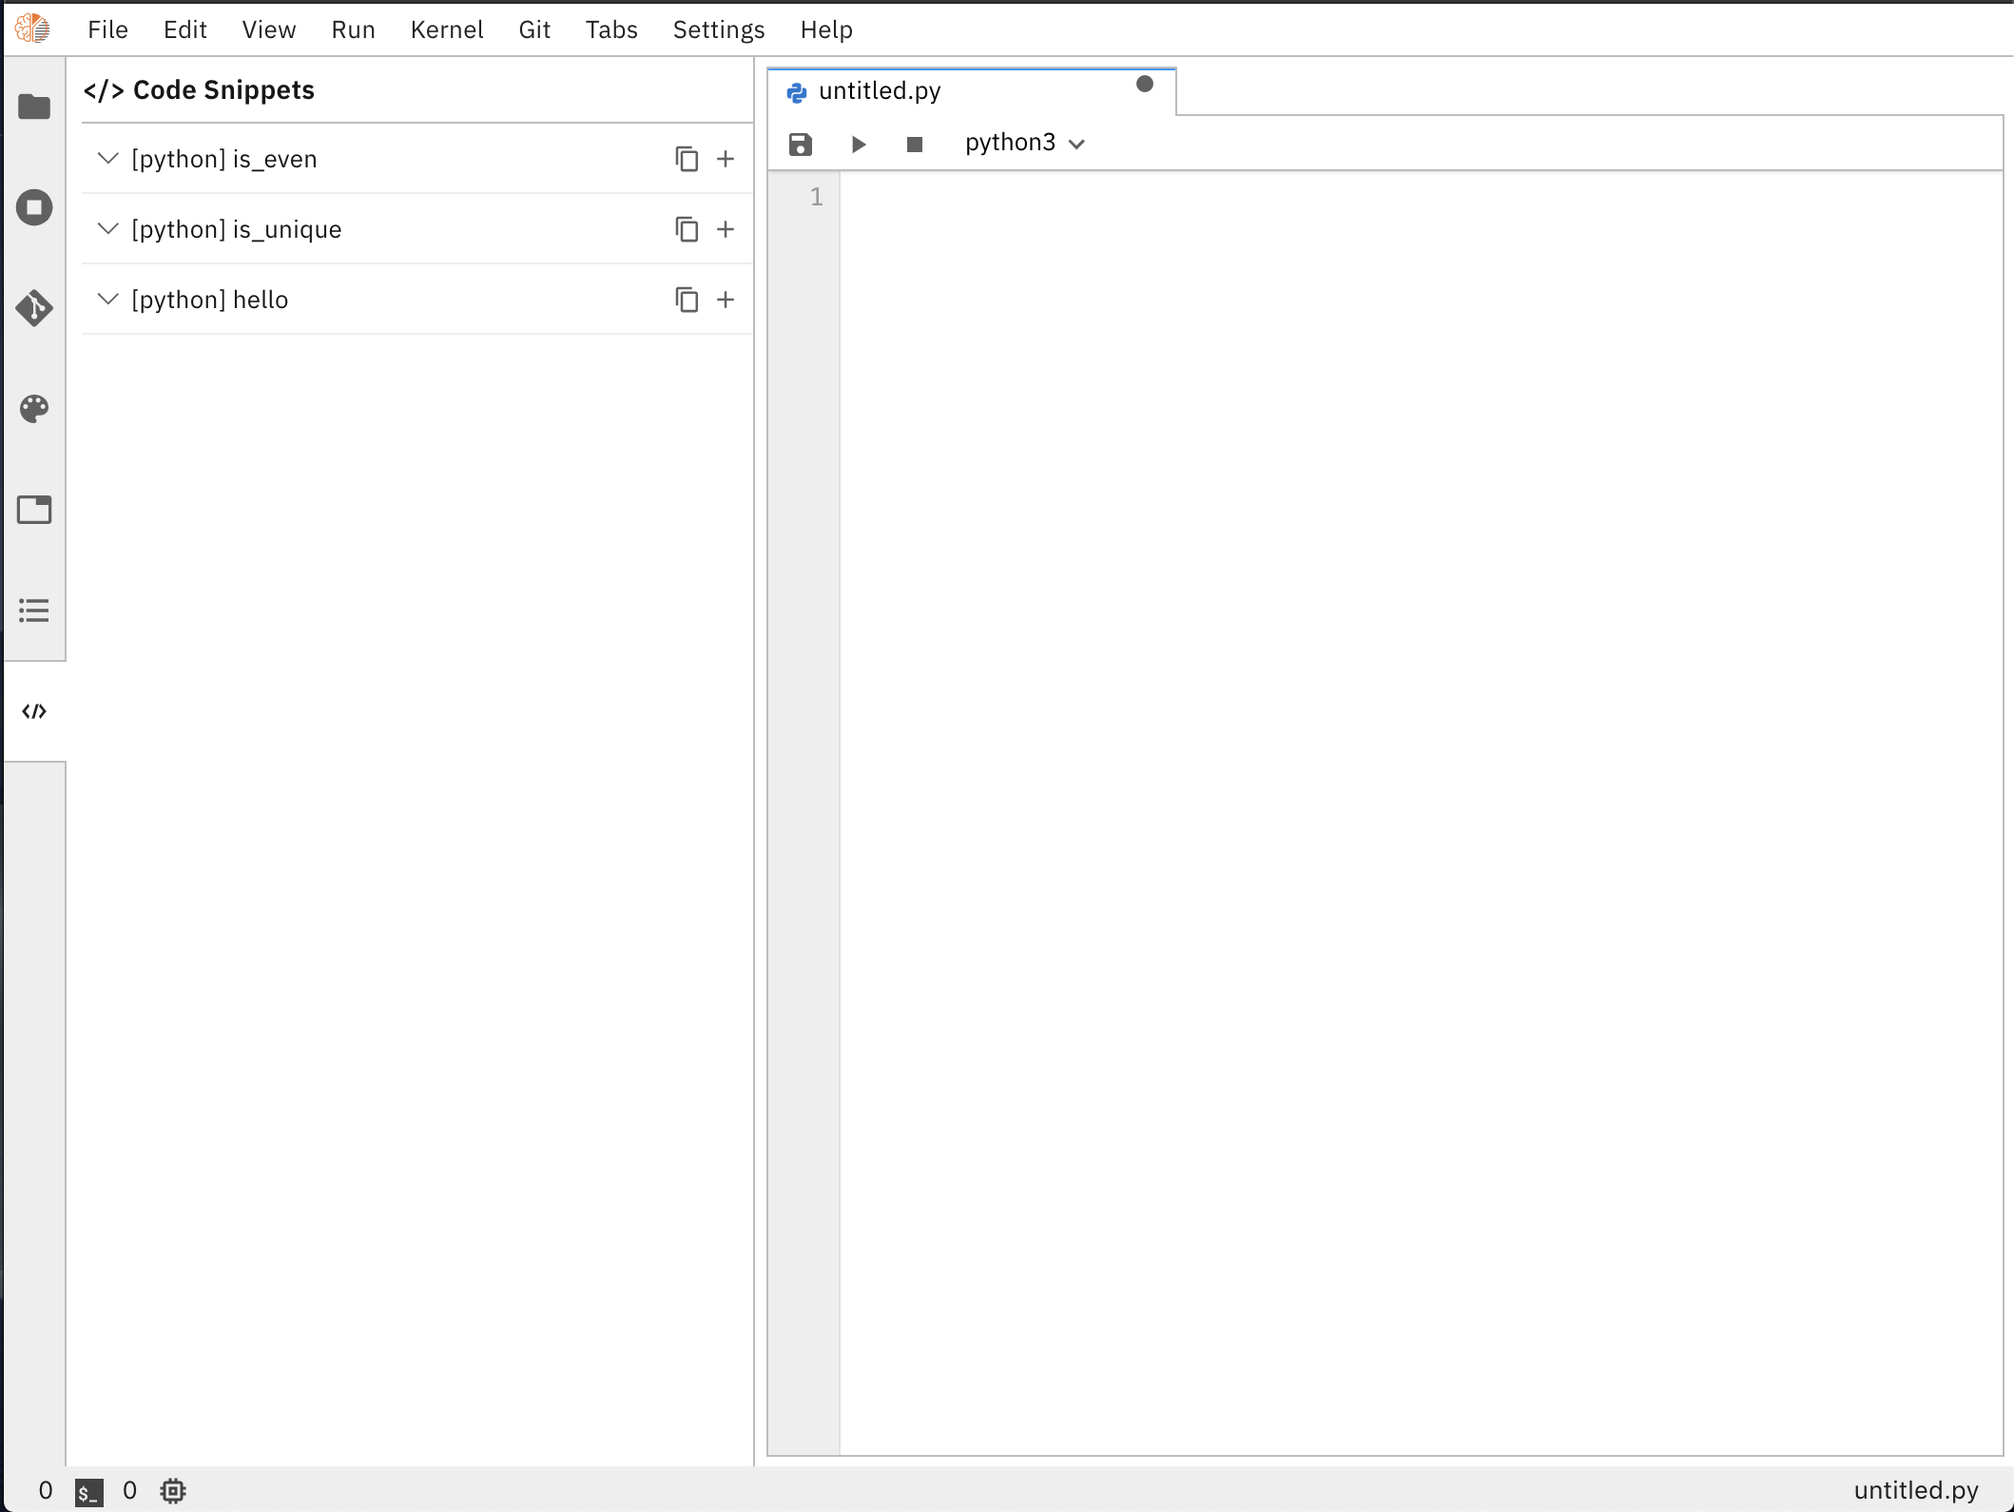
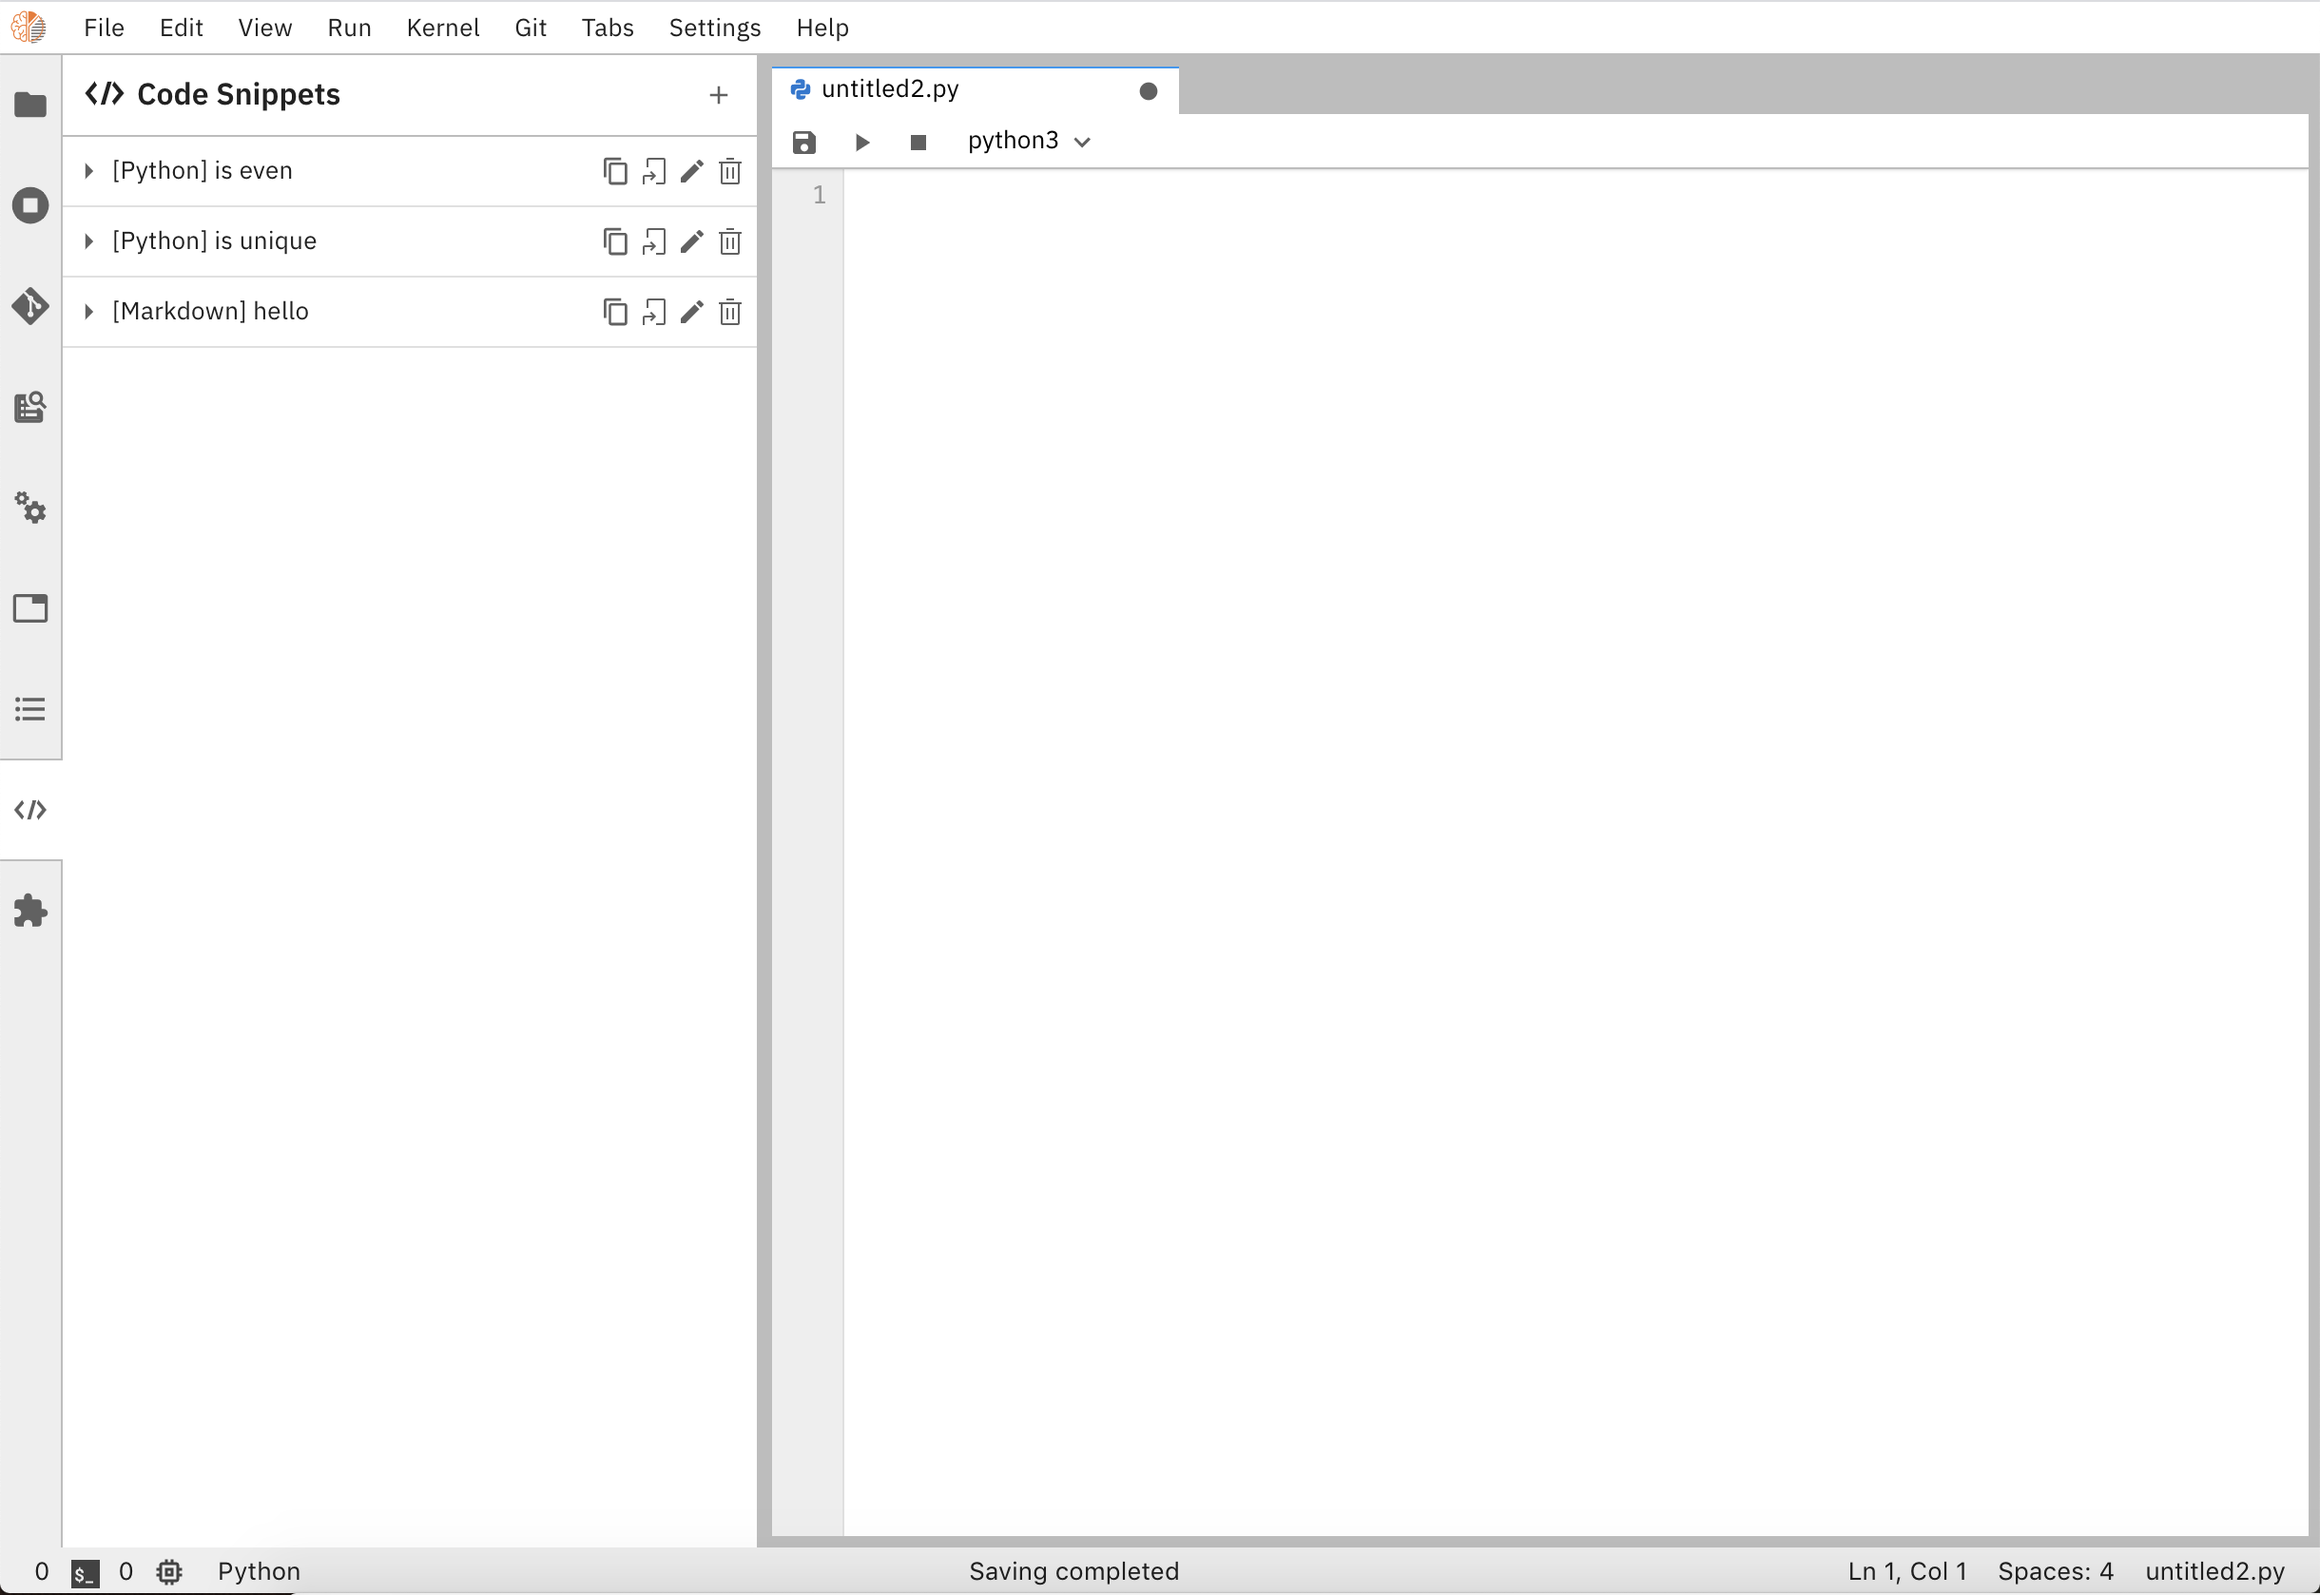
Add metadata editor documentation (#770)

diff --git a/docs/source/user_guide/code-snippets.md b/docs/source/user_guide/code-snippets.md
@@ -23,10 +23,21 @@ Elyra supports custom code snippets that can be added to the file editor.
 
 ![Code Snippets](../images/code-snippets.png)
 
-### Code Snippet data
-This extension uses [Elyra Metadata Service](../developer_guide/metadata)
-and requires configuring code snippets metadata in order to retrieve and display snippets in the UI.
-To configure metadata for code snippets, locate `[JUPYTER DATA DIR]/metadata/` folder and create the subdirectory `code-snippets/`.
+### Adding and Editing Code Snippets
+
+To add a code snippet, simply click the `+` button in the top right corner of the code snippets side pane, and an editor will appear in the main area of JupyterLab.
+
+![Add Code Snippets](../images/add-code-snippets.png)
+
+To edit a code snippet, click the edit button to open an editor in the main area of JupyterLab.
+
+![Edit Code Snippets](../images/edit-code-snippets.png)
+
+Click "Save and Close" to see your edits in the code snippets side pane.
+
+#### Code Snippet data
+This extension uses [Elyra Metadata Service](../developer_guide/metadata) and in addition to the frontend editor detailed above, this can also be configured on the backend.
+To configure metadata for code snippets through the backend, locate `[JUPYTER DATA DIR]/metadata/` folder and create the subdirectory `code-snippets/`.
 This is where code snippet json files are stored, following a schema defined in
 [code snippets metadata](https://github.com/elyra-ai/elyra/blob/master/elyra/metadata/schemas/code-snippet.json)
 
@@ -55,6 +66,6 @@ Each snippet item can then be expanded on click, also displaying the `code` cont
 
 By clicking on the **copy** button, the content of the code snippet is copied into the system clipboard.
 
-The **+** button inserts the code snippet content into the editor tab in focus. If the widget in focus is not an editor, an error is displayed.
+The **insert** button inserts the code snippet content into the editor tab in focus. If the widget in focus is not an editor, an error is displayed.
 Code snippets are automatically added as code blocks in markdown files and notebook markdown cells.
 When inserting snippets into executable editors (ie. a notebook code cell or a python file editor), the extension will verify kernel language compatibility, warning the user when a mismatch is detected.
